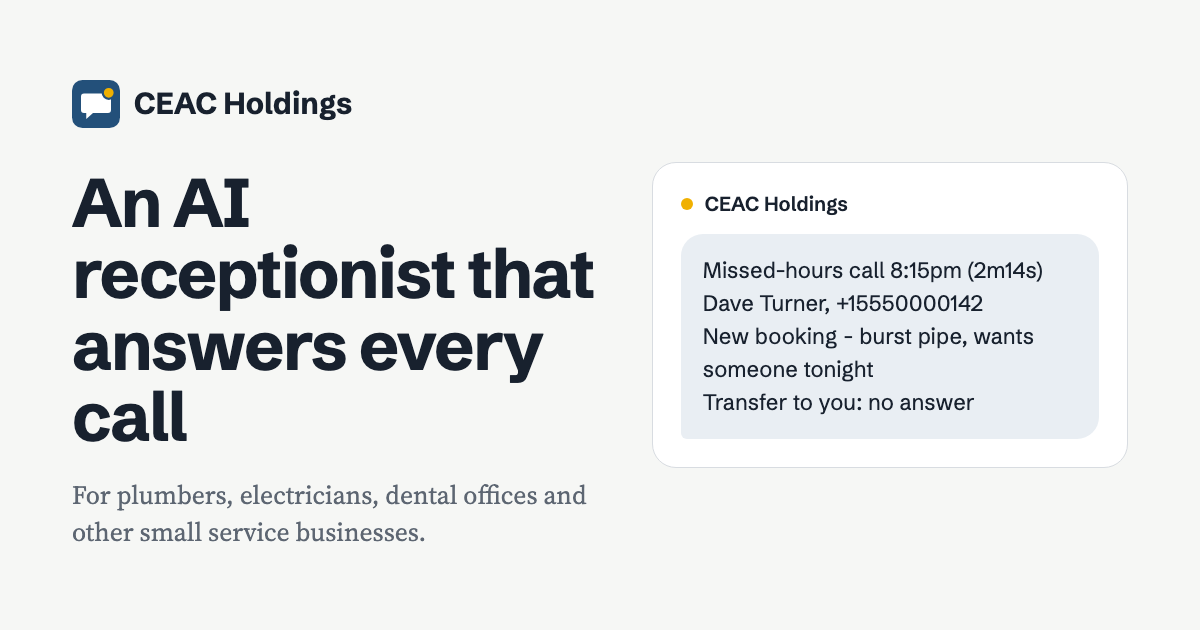
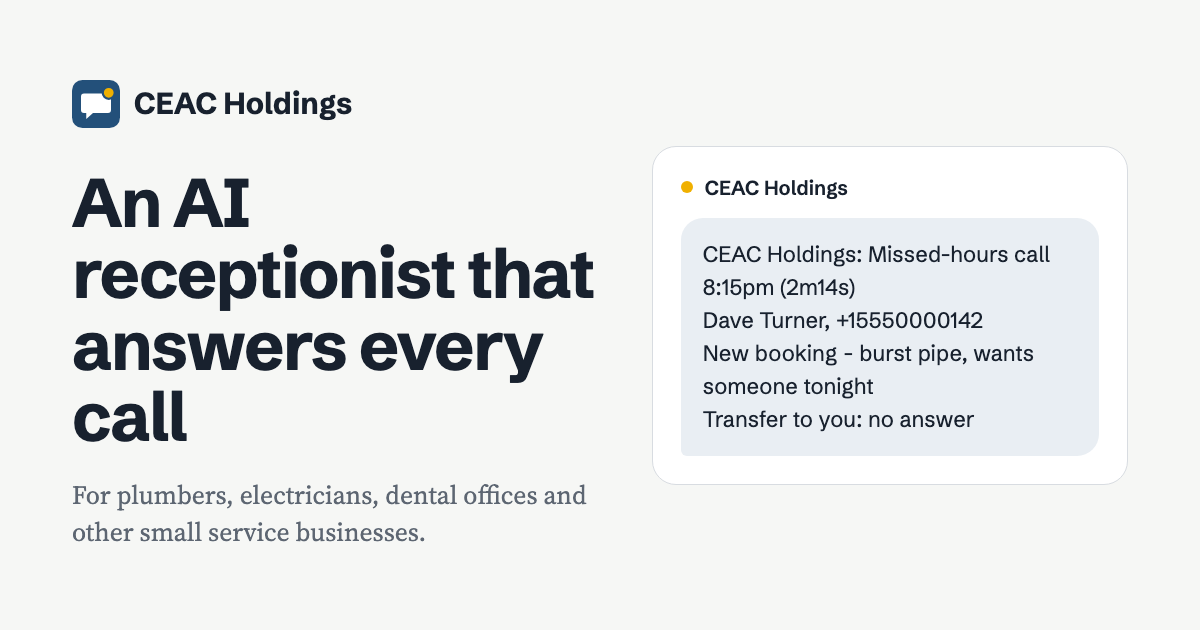
fix: show the real call summary format in the home page example
The hero example used labelled fields that no real text has, while the
SMS Terms page now shows the approved body. Reviewers compare the two,
so both now show the same approved message with the brand prefix, and
the link preview image matches.

Changed region(s): [[0.5858, 0.3921, 0.8942, 0.6937], [0.555, 0.2714, 0.7092, 0.3619]]

diff --git a/index.html b/index.html
@@ -50,20 +50,7 @@
 
       <figure class="notification">
         <p class="notification-sender">CEAC Holdings</p>
-        <div class="notification-message">
-          <dl>
-            <dt>Caller</dt>
-            <dd>Dana Ruiz, (202) 555-0148</dd>
-            <dt>Time</dt>
-            <dd>Tue 6:52 pm, 3 min</dd>
-            <dt>Wanted</dt>
-            <dd>Water heater leaking in the basement. Asked for a visit tomorrow morning.</dd>
-            <dt>Booked</dt>
-            <dd>Wed 8:00 am</dd>
-            <dt>Transfer</dt>
-            <dd>Not needed</dd>
-          </dl>
-        </div>
+        <p class="notification-message">CEAC Holdings: Missed-hours call 8:15pm (2m14s)<br>Dave Turner, +15550000142<br>New booking - burst pipe, wants someone tonight<br>Transfer to you: no answer</p>
         <figcaption>Example call summary. Owners who opt in get one after each call we answer.</figcaption>
       </figure>
     </section>

diff --git a/style.css b/style.css
@@ -257,21 +257,6 @@ li + li {
   line-height: 1.5;
 }
 
-.notification-message dl {
-  display: grid;
-  grid-template-columns: max-content 1fr;
-  gap: 4px 14px;
-  margin: 0;
-}
-
-.notification-message dt {
-  color: var(--muted);
-}
-
-.notification-message dd {
-  margin: 0;
-}
-
 .notification figcaption {
   margin-top: 14px;
   font-size: 0.8125rem;
